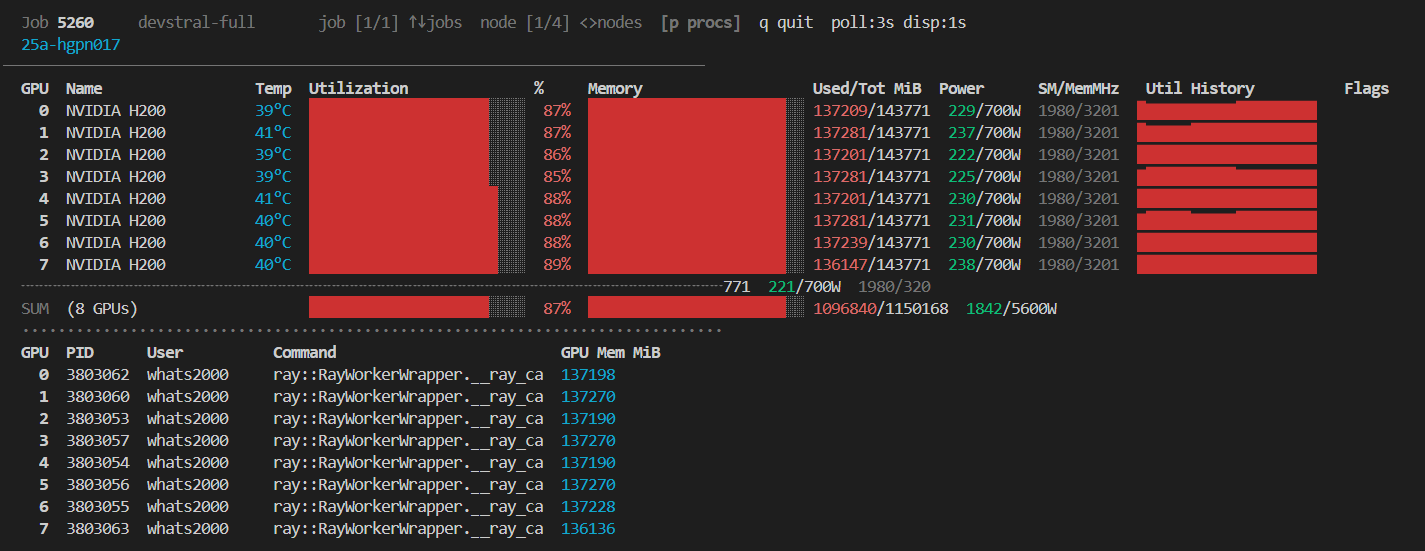
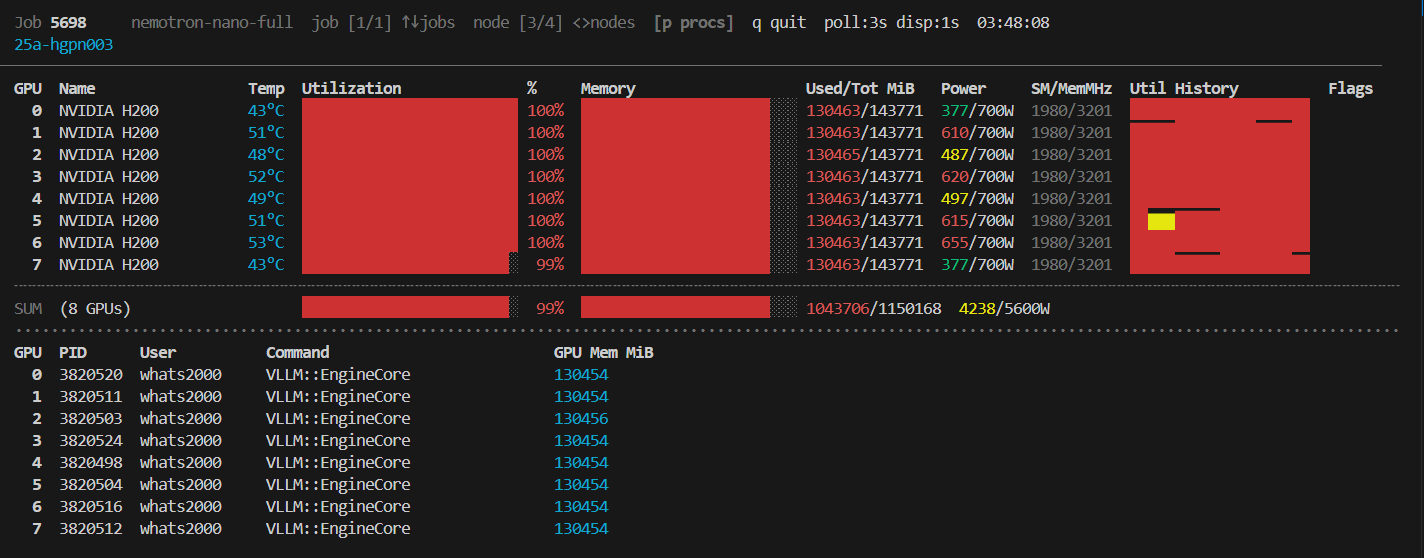
fix(ui): fix layout overflow, sparkline padding, and resize handling

Changed region(s): [[0.0, 0.0309, 0.9888, 0.9873], [0.0927, 0.0309, 0.7416, 0.0617]]

diff --git a/CHANGELOG.md b/CHANGELOG.md
@@ -7,6 +7,26 @@ and this project adheres to [Semantic Versioning](https://semver.org/spec/v2.0.0
 
 ## [Unreleased]
 
+## [0.1.2] — 2026-02-27
+
+### Fixed
+
+- Replace `get_bar_width` with unified `get_layout` returning `bw`, `spark_len`, and `cols`;
+  correct fixed-overhead constant to 80 chars (was 74/77)
+- Hide the **Util History** column entirely when `spark_len < 6` (terminal too narrow)
+- Widen memory format from `%5d/%-5d` to `%6d/%-6d` to accommodate 6-digit MiB values
+  (e.g. NVIDIA H200 143 771 MiB); update "Used/Tot MiB" header padding to `%-13s`
+- Correct **Power** header width `%-9s` → `%-8s` and **SM/MemMHz** header width
+  `%-10s` → `%-9s` to match actual data column widths
+- Pad `render_sparkline` output to the full `spark_len` with spaces so the **Flags**
+  column always aligns even before the history buffer is full
+- Guard **Flags** header against terminal-width overflow; only print it when ≥ 7
+  spare columns remain after the fixed layout
+- All separator lines (`─`, `╌`, `·`) now scale to actual terminal width instead of
+  the hardcoded 78-character value
+- Handle terminal resize (`SIGWINCH`): set a flag that triggers `tput clear` at the
+  start of the next render cycle to eliminate stale content from old dimensions
+
 ## [0.1.0] — 2026-02-25
 
 ### Added
@@ -24,5 +44,7 @@ and this project adheres to [Semantic Versioning](https://semver.org/spec/v2.0.0
 - Python package wrapper for `pip install nvnodetop` distribution
 - GitHub Actions CI/CD pipeline for automated PyPI publishing
 
-[Unreleased]: https://github.com/whats2000/nvnodetop/compare/v0.1.0...HEAD
+[Unreleased]: https://github.com/whats2000/nvnodetop/compare/v0.1.2...HEAD
+[0.1.2]: https://github.com/whats2000/nvnodetop/compare/v0.1.1...v0.1.2
+[0.1.1]: https://github.com/whats2000/nvnodetop/compare/v0.1.0...v0.1.1
 [0.1.0]: https://github.com/whats2000/nvnodetop/releases/tag/v0.1.0
